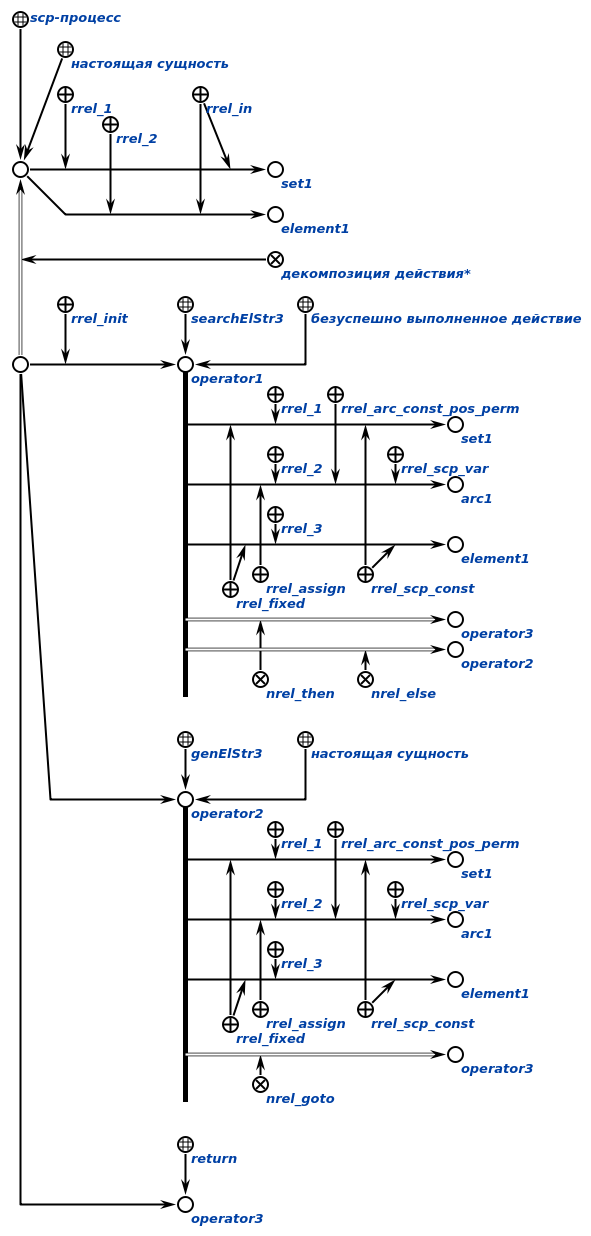
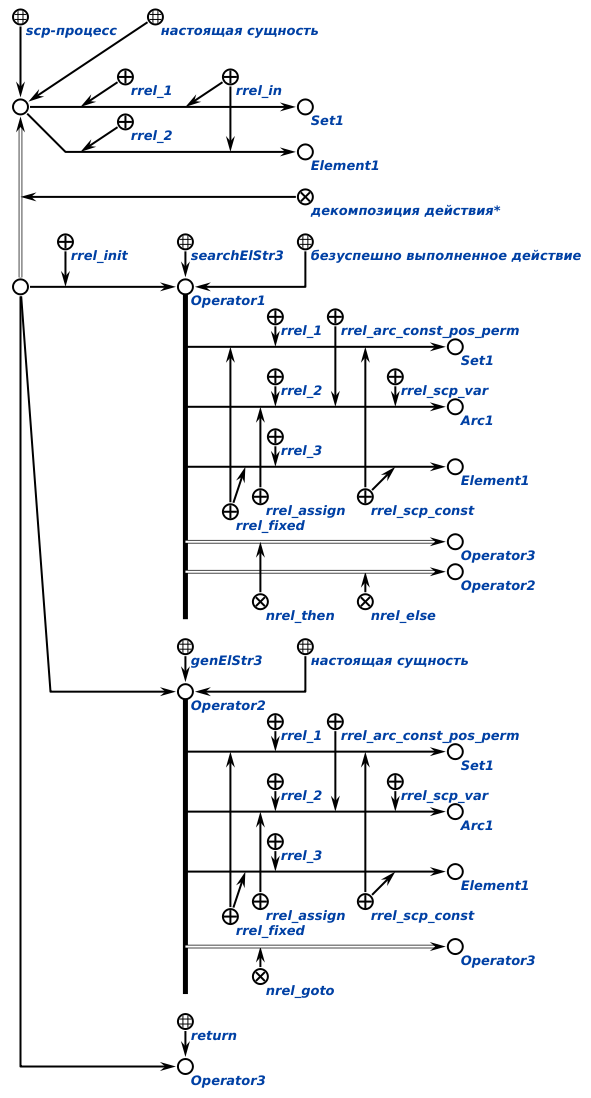
scp-process example update

diff --git a/Contents/chapter2/sd_ostis_sys_models/sd_ps/sd_scp.tex b/Contents/chapter2/sd_ostis_sys_models/sd_ps/sd_scp.tex
@@ -67,7 +67,7 @@
 	даже непосредственно в процессе выполнения без потенциальной опасности
 	испортить общий универсальный алгоритм всей программы. Более того,
 	такой подход к проектированию и интерпретации программ позволяет
-	говорить о возможности создания \textit{самореконфигурируемых программ}}}
+	говорить о возможности создания самореконфигурируемых программ}}
 
 
 \scnheader{Абстрактная scp-машина}
@@ -87,38 +87,38 @@
 По сути каждая \textbf{\textit{scp-программа}} представляет собой описание последовательности элементарных операций, которые необходимо выполнить над семантической сетью, чтобы выполнить более сложное действие некоторого класса.}
 \scnrelfrom{типичная семантическая окрестность}{\scgfileitem{figures/sd_scp/program_example.png}}\\
 \scnaddlevel{1}
-	\scnexplanation{В приведенном примере показана \textit{scp-программа}, состоящая из трех \textit{scp-операторов}. Данная программа проверяет, содержится ли в заданном множестве (первый параметр) заданный элемент (второй параметр), и, если нет, то добавляет его в это множество.}
-	\scnrelfrom{Операция преобразования sc.s-предложения в sc.n-предложение}{\scnfilescn{
-			\scnheader{\_scp\_process}
-			\scnisvarelement{scp-процесс}
-			\scnhasvarelementrole{1;in-параметр}{\textunderscore set1}
-			\scnhasvarelementrole{2;in-параметр}{\textunderscore element1}
-			\scnvarrelto{декомпозиция действия}{\textunderscore ...}
-			\scnaddlevel{1}
-				\scnhasvarelementrole{1}{\textunderscore operator1}
-				\scnaddlevel{1}
-					\scnisvarelement{searchElStr3}
-					\scnhasvarelementrole{1; scp-операнд с заданным значением; scp-константа}{\textunderscore set1}
-					\scnhasvarelementrole{2; scp-операнд со свободным значением'; scp-переменная'; sc-дуга основного вида}{\textunderscore arc1}
-					\scnhasvarelementrole{3; scp-операнд с заданным значением'; scp-константа'}{\textunderscore element1}
-					\scnvarrelfrom{последовательность действий при отрицательном результате}{\textunderscore operator2}
-					\scnvarrelfrom{последовательность действий при положительном результате}{\textunderscore operator3}
-				\scnaddlevel{-1}
-				\scnhasvarelement{\textunderscore operator2}
-				\scnaddlevel{1}
-					\scnisvarelement{genElStr3}
-					\scnhasvarelementrole{1; scp-операнд с заданным значением; scp-константа}{\textunderscore set1}
-					\scnhasvarelementrole{2; scp-операнд со свободным значением'; scp-переменная'; rrel\textunderscore pos const\textunderscore perm}{\textunderscore arc1}
-					\scnhasvarelementrole{3; scp-операнд с заданным значением'; scp-константа'}{\textunderscore element1}
-					\scnvarrelfrom{следующий оператор}{\textunderscore operator3}
-				\scnaddlevel{-1}
-				\scnhasvarelement{\textunderscore operator3}
-				\scnaddlevel{1}
-					\scnisvarelement{return}
-				\scnaddlevel{-1}
-			\scnaddlevel{-1}
-	}}
+	\scnexplanation{В приведенном примере показана \textit{scp-программа}, состоящая из трех \textit{scp-операторов}. Данная программа проверяет, содержится ли в заданном множестве (первый параметр) заданный элемент (второй параметр), и, если нет, то добавляет его в это множество.}	
 \scnaddlevel{-1}
+\scnhaselementrole{пример}{\scnfilescn{
+		\scnheader{\_scp\_process}
+		\scnisvarelement{scp-процесс}
+		\scnhasvarelementrole{1;in-параметр}{\textunderscore set1}
+		\scnhasvarelementrole{2;in-параметр}{\textunderscore element1}
+		\scnvarrelto{декомпозиция действия}{\textunderscore ...}
+		\scnaddlevel{1}
+		\scnhasvarelementrole{1}{\textunderscore operator1}
+		\scnaddlevel{1}
+		\scnisvarelement{searchElStr3}
+		\scnhasvarelementrole{1; scp-операнд с заданным значением; scp-константа}{\textunderscore set1}
+		\scnhasvarelementrole{2; scp-операнд со свободным значением; scp-переменная; sc-дуга основного вида}{\textunderscore arc1}
+		\scnhasvarelementrole{3; scp-операнд с заданным значением; scp-константа}{\textunderscore element1}
+		\scnvarrelfrom{последовательность действий при отрицательном результате}{\textunderscore operator2}
+		\scnvarrelfrom{последовательность действий при положительном результате}{\textunderscore operator3}
+		\scnaddlevel{-1}
+		\scnhasvarelement{\textunderscore operator2}
+		\scnaddlevel{1}
+		\scnisvarelement{genElStr3}
+		\scnhasvarelementrole{1; scp-операнд с заданным значением; scp-константа}{\textunderscore set1}
+		\scnhasvarelementrole{2; scp-операнд со свободным значением; scp-переменная; sc-дуга основного вида}{\textunderscore arc1}
+		\scnhasvarelementrole{3; scp-операнд с заданным значением; scp-константа}{\textunderscore element1}
+		\scnvarrelfrom{следующий оператор}{\textunderscore operator3}
+		\scnaddlevel{-1}
+		\scnhasvarelement{\textunderscore operator3}
+		\scnaddlevel{1}
+		\scnisvarelement{return}
+		\scnaddlevel{-1}
+		\scnaddlevel{-1}
+}}
 
 
 \scnheader{агентная scp-программа}
@@ -189,9 +189,13 @@
 Принадлежность некоторого действия множеству \textit{scp-процессов} гарантирует тот факт, что в декомпозиции данного действия будут присутствовать только знаки элементарных действий (\textit{scp-операторов}), которые может интерпретировать реализация \textit{Абстрактной scp-машины}.}
 \scnrelfrom{пример выполнения}{\scnfilelong{
 \scgfileitem{figures/sd_scp/process_example.png}
+\scnexplanation{Вызов scp-программы. Генерируется соответствующий scp-процесс. Происходит вызов начального оператора scp-процесса Operator1}
 \scgfileitem{figures/sd_scp/process_example2.png}
+\scnexplanation{Действие Operator1 оказалось безуспешно выполненным. Производится запуск scp-оператора генерации трёхэементной конструкции Operator2}
 \scgfileitem{figures/sd_scp/process_example3.png}
+\scnexplanation{Действие Operator2 выполнилось. Производится запуск scp-оператора завершения выполнения программы Operator3}
 \scgfileitem{figures/sd_scp/process_example4.png}
+\scnexplanation{Действие Operator3 выполнилось. Завершаем выполнение scp-процесса}
 }}
 \scnaddlevel{1}
 \scnexplanation{В приведенном примере последовательно показаны состояния scp-процесса, соответствующего scp-программе, добавляющей заданный элемент в заданное множество, если он там ранее не содержался. В примере предполагается, что рассматриваемый элемент (element1) изначально не содержится во множестве (set1).

diff --git a/book.tex b/book.tex
@@ -101,10 +101,10 @@
 \include{Contents/beginning}
 
 \ActivateBG
-%\include{Contents/chapter0}
+\include{Contents/chapter0}
 
 %\mainmatter%%%%%%%%%%%%%%%%%%%%%%%%%%%%%%%%%%%%%%%%%%%%%%%%%%%%%%%
-%\include{Contents/chapter1}
+\include{Contents/chapter1}
 \include{Contents/chapter2}
 %\include{Contents/conclusion}
 %\include{Contents/bibliography}
